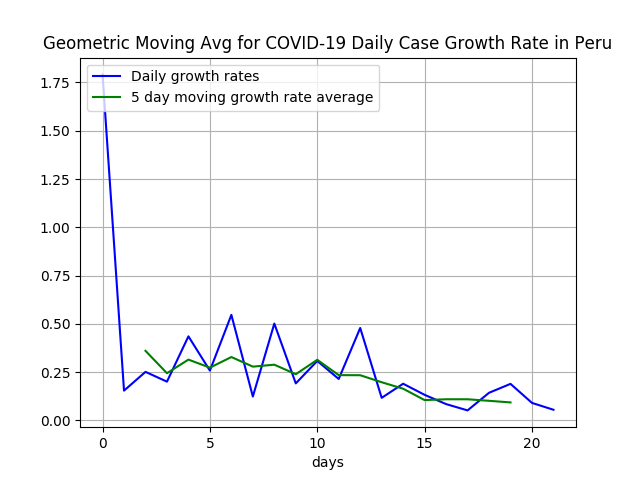
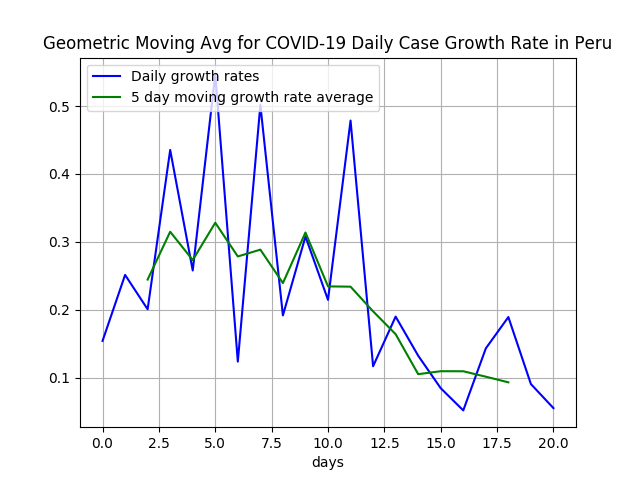
Improve Peru plot

diff --git a/running_geometric_mean.py b/running_geometric_mean.py
@@ -44,7 +44,7 @@ def plot_gmean_rates(cases_list, location, filename=False):
 #utah_cases =
 
 if __name__ == '__main__':
-    peru_cases = [1, 6, 7, 9, 11, 17, 22, 38, 43, 71, 86, 117,
+    peru_cases = [6, 7, 9, 11, 17, 22, 38, 43, 71, 86, 117,
                 145, 234, 263, 318, 363, 395, 416, 480, 580, 635, 671]
 
     df = pd.read_csv('./us-states.csv')
